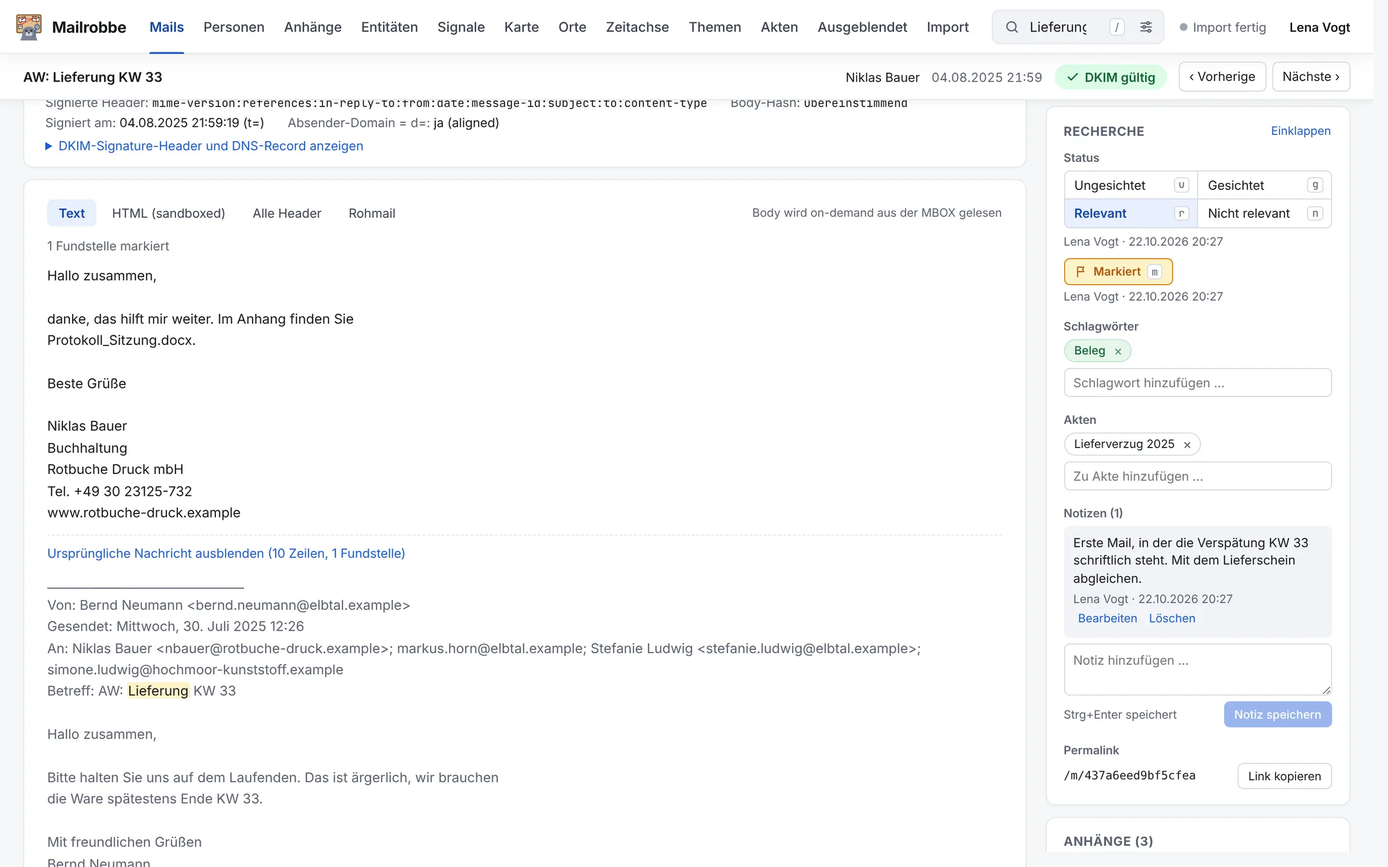
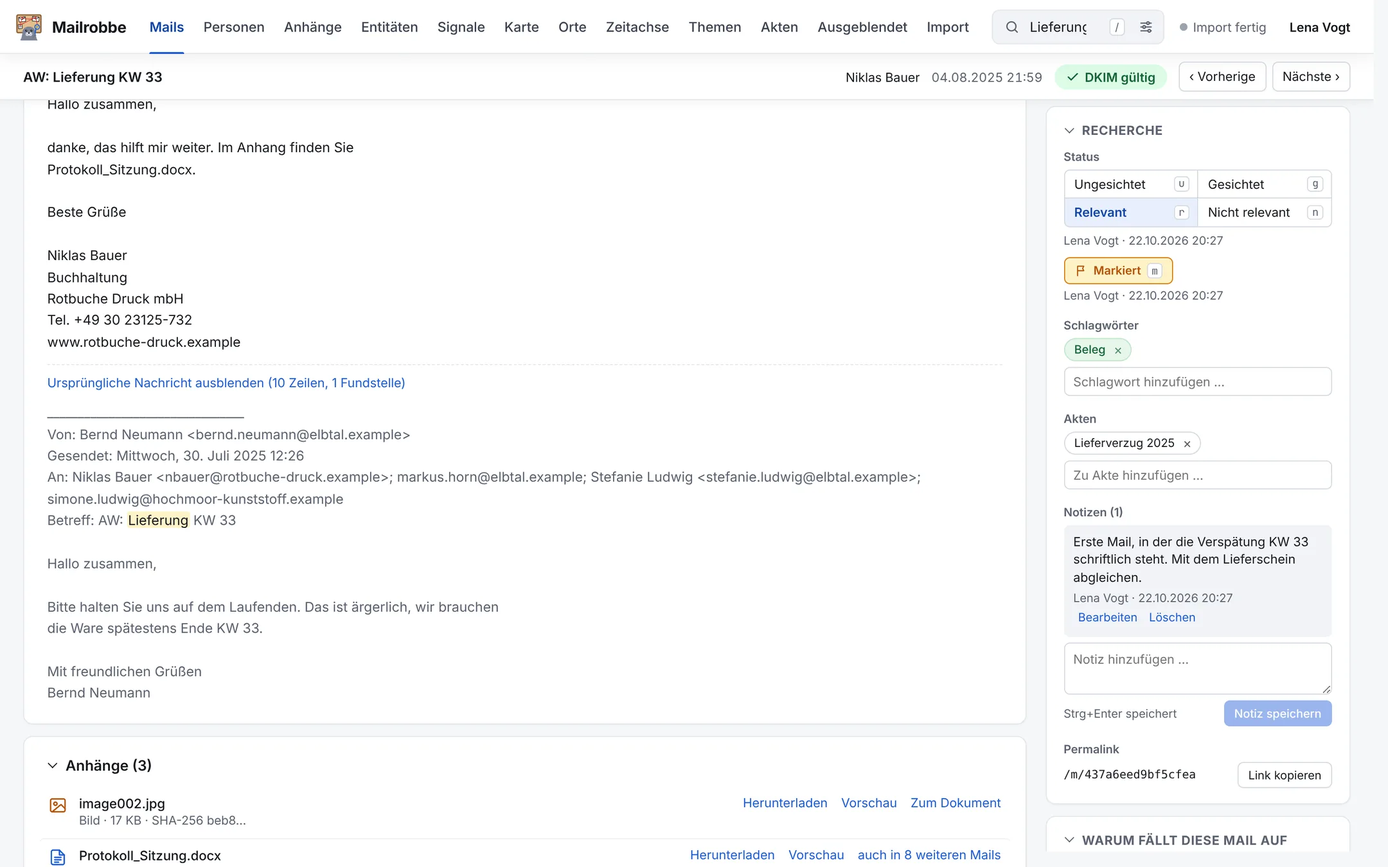
Retake the screenshots of the new mail detail, aim README and page at newsrooms
The mail detail now reads like a mail program, so the pictures of it (mail,
quotes, the social media picture) are taken again from the test archive; the
DKIM picture shows the check unfolded. README and website speak to
journalists and research teams with a leak or a large mail archive: who it is
for, evidence before publication, the legal department as the export's
reader, and what DNS lookups can give away. Below the donation links both
name a contact address with its PGP key (D194).

Claude-Session: https://claude.ai/code/session_01FLTCtAUB5yjEWvzSFBio2e

diff --git a/site/index.html b/site/index.html
@@ -3,15 +3,15 @@
   <head>
     <meta charset="utf-8" />
     <meta name="viewport" content="width=device-width, initial-scale=1" />
-    <title>Mailrobbe: große Mailarchive für Recherchen erschließen</title>
+    <title>Mailrobbe: Mail-Leaks und große Mailarchive recherchieren</title>
     <meta
       name="description"
-      content="Mailrobbe liest große MBOX-Archive ein, prüft die Echtheit jeder Mail per DKIM, zeigt, wer mit wem wann worüber geschrieben hat, und läuft lokal auf dem eigenen Rechner."
+      content="Ein Recherchewerkzeug für Redaktionen und Rechercheteams: Mailrobbe macht Mail-Leaks und große MBOX-Archive durchsuchbar, prüft per DKIM, welche Mails unverändert sind, zeigt, wer mit wem wann worüber geschrieben hat, und läuft lokal auf dem eigenen Rechner."
     />
     <meta property="og:title" content="Mailrobbe" />
     <meta
       property="og:description"
-      content="Große Mailarchive durchsuchen, prüfen und verstehen. Für Recherchen, lokal auf dem eigenen Rechner."
+      content="Mail-Leaks und große Mailarchive recherchieren: durchsuchen, prüfen, belegen. Für Redaktionen und Rechercheteams, lokal auf dem eigenen Rechner."
     />
     <meta property="og:image" content="https://mailrobbe.admon.me/img/mailliste.webp" />
     <meta name="theme-color" content="#1d5bd6" />
@@ -44,12 +44,14 @@
               <img src="logo-wordmark.svg" alt="Mailrobbe" width="420" height="105" />
             </picture>
           </h1>
-          <p class="lead">Große Mailarchive durchsuchen, prüfen und verstehen.</p>
+          <p class="lead">Mail-Leaks und große Mailarchive recherchieren: durchsuchen, prüfen, belegen.</p>
           <p class="intro">
-            Mailrobbe liest MBOX-Exporte mit Hunderttausenden Mails ein, prüft die Echtheit jeder
-            Mail, zeigt, wer mit wem wann worüber geschrieben hat, und öffnet verschlüsselte Anhänge,
-            wenn das Kennwort irgendwo im Archiv steht. Es läuft auf dem eigenen Rechner im Browser,
-            ohne Cloud und ohne Konto.
+            Ein Recherchewerkzeug für Journalistinnen und Journalisten, Redaktionen und
+            Rechercheteams, gebaut für Mailbestände, die niemand von vorn bis hinten lesen kann: ein
+            Leak, der Postfach-Export einer Quelle, Hunderttausende Mails in MBOX-Dateien. Mailrobbe
+            macht sie durchsuchbar, prüft per DKIM, welche Mails unverändert sind, zeigt, wer mit wem
+            wann worüber geschrieben hat, und öffnet verschlüsselte Anhänge, wenn das Kennwort
+            irgendwo im Archiv steht. Alles auf dem eigenen Rechner, ohne Cloud und ohne Konto.
           </p>
           <div class="actions">
             <a class="button primary" href="#installieren">So geht es los</a>
@@ -70,20 +72,20 @@
       <section class="facts" aria-label="Grundsätze">
         <div class="wrap grid four">
           <div>
-            <h2>400.000 Mails</h2>
-            <p>Gebaut für Archive dieser Größe. Listen und Filter antworten im Lasttest in Millisekunden.</p>
+            <h2>Für Leaks gebaut</h2>
+            <p>Getestet mit 400.000 Mails, samt Anhängen, gepackten Archiven und Kennwörtern. Listen und Filter antworten in Millisekunden.</p>
           </div>
           <div>
-            <h2>Nichts verändert</h2>
-            <p>Die Originaldateien bleiben unangetastet. Was angezeigt wird, prüft Mailrobbe gegen die Prüfsumme vom Import.</p>
+            <h2>Belegbar</h2>
+            <p>Die Originaldateien bleiben unangetastet. Jede Fundstelle führt zur Originalmail, geprüft gegen die Prüfsumme vom Import.</p>
           </div>
           <div>
-            <h2>Lokal</h2>
-            <p>Läuft auf dem eigenen Rechner. Inhalte aus dem Archiv verlassen ihn nicht.</p>
+            <h2>Bleibt im Haus</h2>
+            <p>Läuft auf dem eigenen Rechner, ohne Cloud und ohne Konto. Inhalte aus dem Archiv verlassen ihn nicht.</p>
           </div>
           <div>
             <h2>Bewertet nichts</h2>
-            <p>Mailrobbe zeigt, wo sich das Lesen lohnen kann. Lesen und entscheiden muss das Team.</p>
+            <p>Mailrobbe zeigt, wo sich das Lesen lohnen kann. Lesen, prüfen und entscheiden muss die Redaktion.</p>
           </div>
         </div>
       </section>
@@ -110,10 +112,10 @@
             <div class="text">
               <h3>Lesen ohne Ballast</h3>
               <p>
-                Zitierter Verlauf, Weiterleitungen und Signaturen sind eingeklappt, die Fundstellen
-                markiert, auch im eingeklappten Teil. Die Pfeiltasten blättern durch die Treffer.
-                Text, HTML, Kopfzeilen und Rohmail liest Mailrobbe bei jedem Öffnen frisch aus der
-                Originaldatei.
+                Eine Mail sieht aus wie im Mailprogramm. Zitierter Verlauf, Weiterleitungen und
+                Signaturen sind eingeklappt, die Fundstellen markiert, auch im eingeklappten Teil. Die
+                Pfeiltasten blättern durch die Treffer. Text, HTML, Kopfzeilen und Rohmail liest
+                Mailrobbe bei jedem Öffnen frisch aus der Originaldatei.
               </p>
               <p class="where">Mail-Detail</p>
             </div>
@@ -124,15 +126,16 @@
             <div class="text">
               <h3>Echtheit prüfen statt vermuten</h3>
               <p>
-                Jede DKIM-Signatur wird einzeln geprüft und mit Grund gespeichert. Gültig heißt: Die
+                Bevor eine Mail zitiert wird, will man wissen, ob sie so verschickt wurde. Jede
+                DKIM-Signatur wird einzeln geprüft und mit Grund gespeichert. Gültig heißt: Die
                 Mail wurde mit dem Schlüssel der Domain unterschrieben und ist seither unverändert. Ist
                 der Schlüssel heute aus dem DNS verschwunden, sucht Mailrobbe ihn auf Knopfdruck
                 weiter: im Archiv selbst, in einem öffentlichen Schlüsselarchiv und rechnerisch aus
                 zwei Signaturen.
               </p>
-              <p class="where">Mail-Detail, Filter „DKIM-Status“, Import: „Gelöschte Selektoren“</p>
+              <p class="where">Mail-Detail: Klick auf das DKIM-Siegel, Filter „DKIM-Status“, Import: „Gelöschte Selektoren“</p>
             </div>
-            <a class="shot" href="img/mail.webp"><img src="img/mail.webp" alt="Mail-Detail mit DKIM-Status, Anhängen, Prüfstatus, Schlagwort und Notiz" width="2160" height="1350" loading="lazy" /></a>
+            <a class="shot" href="img/mail.webp"><img src="img/mail.webp" alt="Mail-Detail mit aufgeklappter DKIM-Prüfung, Anhängen, Prüfstatus, Schlagwort und Notiz" width="2160" height="1350" loading="lazy" /></a>
           </article>
 
           <article class="feature">
@@ -247,8 +250,9 @@
               <h3>Im Team festhalten</h3>
               <p>
                 Prüfstatus, Markierung, Notizen, Schlagworte und Akten hängen an der Mail und sind
-                für alle im Team sichtbar. Eine Akte sammelt die Mails zu einer Frage und geht als
-                ZIP an Anwälte: Originalmails, PDFs, Manifest und Prüfsummen.
+                für das ganze Rechercheteam sichtbar. Eine Akte sammelt die Mails zu einer Frage und
+                geht als ZIP an Justiziariat und Anwälte: Originalmails, PDFs, Manifest und
+                Prüfsummen.
               </p>
               <p class="where">Akten</p>
             </div>
@@ -259,11 +263,11 @@
             <div class="text">
               <h3>Zeigen, ohne preiszugeben</h3>
               <p>
-                Aus jeder Mail wird auf Wunsch ein Bild für soziale Medien im Look eines
-                Mailprogramms. Beteiligte, Adressen, Telefonnummern, IBANs und Namen sind geschwärzt,
+                Aus jeder Mail wird auf Wunsch ein Bild für den Artikel oder für soziale Medien, im
+                Look eines Mailprogramms. Beteiligte, Adressen, Telefonnummern, IBANs und Namen sind geschwärzt,
                 und zwar im Text, bevor gezeichnet wird: Unter einem Balken steht nichts mehr.
               </p>
-              <p class="where">Mail-Detail, „Als Bild für Soziale Medien“</p>
+              <p class="where">Mail-Detail, Aktionen: „Als Bild für Soziale Medien“</p>
             </div>
             <a class="shot" href="img/social.webp"><img src="img/social.webp" alt="Dialog für das Bild für soziale Medien mit geschwärzter Vorschau" width="2160" height="1350" loading="lazy" /></a>
           </article>
@@ -350,7 +354,7 @@ docker compose up -d --build</code></pre>
           </details>
           <details>
             <summary>Geht dabei etwas ins Internet?</summary>
-            <p>Von selbst fragt Mailrobbe nur die DKIM-Schlüssel im DNS ab. Nur auf Knopfdruck fragt es ein öffentliches Schlüsselarchiv und lädt die Detailkarte herunter. Inhalte aus dem Archiv verlassen den Rechner nicht.</p>
+            <p>Von selbst fragt Mailrobbe nur die DKIM-Schlüssel im DNS ab. Nur auf Knopfdruck fragt es ein öffentliches Schlüsselarchiv und lädt die Detailkarte herunter. Inhalte aus dem Archiv verlassen den Rechner nicht. DNS-Server und Schlüsselarchiv erfahren aber, welche Domains gefragt werden, und bei einem Leak kann schon das verraten, wessen Mails geprüft werden. Wie man ohne DNS-Abfragen importiert und später gezielt nachprüft, steht in der <a href="https://github.com/admonstrator/mailrobbe#geht-dabei-etwas-ins-internet">README</a>.</p>
           </details>
           <details>
             <summary>Beweist „DKIM gültig“, wer die Mail geschrieben hat?</summary>
@@ -373,7 +377,7 @@ docker compose up -d --build</code></pre>
 
       <section id="unterstuetzen" class="support">
         <div class="wrap narrow">
-          <h2 class="section-title">Unterstützen</h2>
+          <h2 class="section-title">Unterstützen und Kontakt</h2>
           <p>Hinter Mailrobbe steht kein Konzern, sondern admon, viel Hartnäckigkeit und eine bedenkliche Menge Energydrinks. Wer es nützlich findet, kann die Weiterentwicklung unterstützen, mit einem Kaffee, einem Energydrink oder einfach einem Stern auf GitHub.</p>
           <div class="donate">
             <a class="button sponsor" href="https://github.com/sponsors/admonstrator">GitHub Sponsors</a>
@@ -381,13 +385,18 @@ docker compose up -d --build</code></pre>
             <a class="button kofi" href="https://ko-fi.com/admon">Ko-fi</a>
             <a class="button paypal" href="https://paypal.me/aaronviehl">PayPal</a>
           </div>
+          <p class="contact">
+            Wünsche, Lob und Kritik gern per Mail an <a href="mailto:hey@admon.me">hey@admon.me</a>,
+            auf Wunsch verschlüsselt mit <a href="https://github.com/admonstrator/Admonstrator/blob/main/pgp/hey@admon.me.asc">diesem PGP-Schlüssel</a>.<br />
+            <span class="fingerprint">Fingerabdruck <code>C2D7 EB96 8E27 4D5F 1B24 1B04 95E1 6BDE A94F 50A4</code></span>
+          </p>
         </div>
       </section>
     </main>
 
     <footer class="foot">
       <div class="wrap">
-        <p><strong>Mailrobbe ist von admon, für Recherchen in großen Mailarchiven.</strong></p>
+        <p><strong>Mailrobbe ist von admon, für Recherchen in Mail-Leaks und großen Mailarchiven.</strong></p>
         <p><a href="https://github.com/admonstrator/mailrobbe">Quellcode auf GitHub</a> · Alle Bilder zeigen erfundene Testdaten.</p>
       </div>
     </footer>

diff --git a/site/style.css b/site/style.css
@@ -452,6 +452,14 @@ h3 {
   filter: brightness(0.92);
 }
 
+.contact {
+  margin: 32px 0 0;
+}
+
+.fingerprint {
+  font-size: 14px;
+}
+
 /* Lightbox */
 
 .shot {

diff --git a/README.md b/README.md
@@ -7,26 +7,42 @@
 
 <h1>Mailrobbe</h1>
 
-**Große Mailarchive durchsuchen, prüfen und verstehen.**
+**Mail-Leaks und große Mailarchive recherchieren: durchsuchen, prüfen, belegen.**
 
 [![GitHub Sponsors](https://img.shields.io/badge/GitHub-Sponsors-EA4AAA?style=for-the-badge&logo=github)](https://github.com/sponsors/admonstrator) [![Buy Me A Coffee](https://img.shields.io/badge/Buy%20Me%20A%20Coffee-FFDD00?style=for-the-badge&logo=buy-me-a-coffee&logoColor=black)](https://buymeacoffee.com/admon) [![PayPal](https://img.shields.io/badge/PayPal-00457C?style=for-the-badge&logo=paypal&logoColor=white)](https://paypal.me/aaronviehl) [![Ko-fi](https://img.shields.io/badge/Ko--fi-FF5E5B?style=for-the-badge&logo=ko-fi&logoColor=white)](https://ko-fi.com/admon)
 
 Hinter Mailrobbe steht kein Konzern, sondern admon, viel Hartnäckigkeit und eine bedenkliche Menge Energydrinks.<br>
 Wenn es dir eine Recherche leichter gemacht hat, freut sich die Weiterentwicklung über deine Unterstützung.
 
-[Website](https://mailrobbe.admon.me/) | [Auf einen Blick](#auf-einen-blick) | [Was Mailrobbe kann](#was-mailrobbe-kann) | [Schnellstart](#schnellstart) | [Häufige Fragen](#häufige-fragen)
+Wünsche, Lob und Kritik gern per Mail an [hey@admon.me](mailto:hey@admon.me), auf Wunsch verschlüsselt mit [diesem PGP-Schlüssel](https://github.com/admonstrator/Admonstrator/blob/main/pgp/hey@admon.me.asc).<br>
+<sub>Fingerabdruck `C2D7 EB96 8E27 4D5F 1B24  1B04 95E1 6BDE A94F 50A4`</sub>
+
+[Website](https://mailrobbe.admon.me/) | [Für wen](#für-wen) | [Auf einen Blick](#auf-einen-blick) | [Was Mailrobbe kann](#was-mailrobbe-kann) | [Schnellstart](#schnellstart) | [Häufige Fragen](#häufige-fragen)
 
 </div>
 
 ---
 
-Mailrobbe liest MBOX-Exporte mit Hunderttausenden Mails ein, prüft die Echtheit jeder Mail, zeigt, wer mit wem wann worüber geschrieben hat, und öffnet verschlüsselte Anhänge, wenn das Kennwort irgendwo im Archiv steht. Gebaut ist es für Recherchen, für Leute, die in einem Berg aus Mails schnell die richtigen finden müssen, ohne vorher Datenbanken zu studieren.
+Mailrobbe ist ein Recherchewerkzeug für Journalistinnen und Journalisten, Redaktionen und Rechercheteams. Es ist für Mailbestände gebaut, die niemand von vorn bis hinten lesen kann: ein Leak, der Postfach-Export einer Quelle, Hunderttausende Mails in MBOX-Dateien. Mailrobbe macht sie durchsuchbar, auch in den Anhängen, prüft per DKIM, welche Mails nachweislich unverändert sind, zeigt, wer mit wem wann worüber geschrieben hat, und öffnet verschlüsselte Anhänge, wenn das Kennwort irgendwo im Archiv steht.
 
-Es läuft auf dem eigenen Rechner im Browser, ohne Cloud und ohne Konto. Die Mails bleiben unverändert in ihren Dateien. Und bewertet wird nichts: Mailrobbe zeigt, wo sich das Lesen lohnen kann. Lesen und entscheiden muss das Team.
+Das Material bleibt im Haus: Mailrobbe läuft auf dem eigenen Rechner im Browser, ohne Cloud und ohne Konto, und die Mails bleiben unverändert in ihren Dateien. Jede Fundstelle führt zurück zur Originalmail. Und bewertet wird nichts: Mailrobbe zeigt, wo sich das Lesen lohnen kann. Lesen, prüfen und entscheiden muss die Redaktion.
 
 ![Die Mailliste mit Suche, Filtern, Kennzahlen, Signalen und Entitäten](site/img/mailliste.webp)
 
 <sub>Alle Bilder hier und auf der [Website](https://mailrobbe.admon.me/) zeigen ein erfundenes Testarchiv, keine echten Mails.</sub>
+
+---
+
+## Für wen
+
+Für Recherchen, bei denen ein großer Mailbestand im Kern der Geschichte steht:
+
+- **Leaks und Postfach-Exporte**, zu groß zum Durchlesen, oft mit Anhängen, gepackten Archiven und Kennwörtern.
+- **Veröffentlichen mit Beleg.** Bevor eine Mail zitiert wird, zeigt DKIM, ob sie unverändert ist. Der Export liefert Originalmails, PDFs und Prüfsummen für Justiziariat und Anwälte.
+- **Personen und Netzwerke:** wer mit wem, wer wusste was wann, wer hinter welcher Adresse steckt.
+- **Teams**, die gemeinsam sichten, markieren und Funde sammeln, ohne Material in eine Cloud zu laden.
+
+Fürs eigene Postfach ist das zu viel Werkzeug. Dafür reicht das Mailprogramm.
 
 ---
 
@@ -35,7 +51,7 @@ Es läuft auf dem eigenen Rechner im Browser, ohne Cloud und ohne Konto. Die Mai
 | Frage | Wo in Mailrobbe |
 | --- | --- |
 | Wo steht ein Begriff, auch in PDFs, Tabellen und ZIP-Dateien? | Suchfeld oben, das Suchmenü daneben grenzt ein |
-| Ist diese Mail echt? | DKIM-Prüfung im Mail-Detail, Filter nach DKIM-Status |
+| Ist diese Mail echt und unverändert? | DKIM-Siegel und DKIM-Prüfung im Mail-Detail, Filter nach DKIM-Status |
 | Wer hat mit wem wie oft geschrieben? | Karte, Top-Kontakte im Personenprofil |
 | Wer steckt hinter mehreren Adressen? | Alias-Vorschläge unter Personen |
 | Wer wusste was wann? | Zeitachse: Verlauf, Ausreißer, Verstummen, erste Erwähnung |
@@ -46,8 +62,8 @@ Es läuft auf dem eigenen Rechner im Browser, ohne Cloud und ohne Konto. Die Mai
 | Welche Beträge, Konten und Namen tauchen auf? | Entitäten, Facetten neben der Mailliste |
 | Wo wurden Fotos gemacht, welche Orte fallen? | Orte |
 | Wie halte ich Funde im Team fest? | Prüfstatus, Notizen, Schlagworte und Akten an jeder Mail |
-| Wie gebe ich Belege an Anwälte weiter? | Export als ZIP mit Originalmails, PDFs und Prüfsummen |
-| Wie zeige ich eine Mail öffentlich? | „Als Bild für Soziale Medien“, mit Schwärzungen |
+| Wie gehen Belege ans Justiziariat oder an Anwälte? | Export als ZIP mit Originalmails, PDFs und Prüfsummen |
+| Wie zeige ich eine Mail im Artikel oder in sozialen Medien? | Mail-Detail, Aktionen: „Als Bild für Soziale Medien“, mit Schwärzungen |
 
 ---
 
@@ -61,7 +77,7 @@ Ein Suchfeld für Betreff, Mailtext, den Text der Anhänge und Dateinamen, auch 
 
 ### Lesen ohne Ballast
 
-Zitierter Verlauf, Weiterleitungen und Signaturen sind eingeklappt, die Fundstellen markiert, auch im eingeklappten Teil. Die Pfeiltasten blättern durch die Treffer. Text, HTML, Kopfzeilen und Rohmail liest Mailrobbe bei jedem Öffnen frisch aus der Originaldatei; HTML-Mails laufen abgeschottet, ohne Skripte und ohne Nachladen von außen. Kalendereinladungen erscheinen als Termin mit den Antworten der Eingeladenen.
+Eine Mail sieht aus wie im Mailprogramm: Kopf, Text, Anhänge darunter. DKIM-Prüfung und technische Angaben bleiben eingeklappt, bis man sie braucht, und jeder Block merkt sich, ob er offen war. Zitierter Verlauf, Weiterleitungen und Signaturen sind eingeklappt, die Fundstellen markiert, auch im eingeklappten Teil. Die Pfeiltasten blättern durch die Treffer. Text, HTML, Kopfzeilen und Rohmail liest Mailrobbe bei jedem Öffnen frisch aus der Originaldatei; HTML-Mails laufen abgeschottet, ohne Skripte und ohne Nachladen von außen. Kalendereinladungen erscheinen als Termin mit den Antworten der Eingeladenen.
 
 ### Newsletter und Signaturen loswerden
 
@@ -69,9 +85,9 @@ Ausblendregeln nehmen Newsletter, Verteiler und Systemmails aus Liste und Suche,
 
 ### Echtheit prüfen statt vermuten
 
-Jede DKIM-Signatur wird einzeln geprüft und mit Grund gespeichert. Gültig heißt: Die Mail wurde mit dem Schlüssel der Domain unterschrieben und ist seither unverändert. Bei älteren Mails steht der Schlüssel oft nicht mehr im DNS. Dann sucht Mailrobbe unter Import, „Gelöschte Selektoren“, auf Knopfdruck weiter: im Archiv selbst, in einem öffentlichen Schlüsselarchiv und rechnerisch aus zwei Signaturen. Jede Signatur sagt, woher ihr Schlüssel stammt.
+Bevor eine Mail zitiert wird, will man wissen, ob sie so verschickt wurde. Jede DKIM-Signatur wird einzeln geprüft und mit Grund gespeichert; das Siegel oben in der Mail zeigt das Ergebnis, ein Klick darauf die Prüfung mit Domain, Selektor und Schlüssel. Gültig heißt: Die Mail wurde mit dem Schlüssel der Domain unterschrieben und ist seither unverändert. Bei älteren Mails steht der Schlüssel oft nicht mehr im DNS. Dann sucht Mailrobbe unter Import, „Gelöschte Selektoren“, auf Knopfdruck weiter: im Archiv selbst, in einem öffentlichen Schlüsselarchiv und rechnerisch aus zwei Signaturen. Jede Signatur sagt, woher ihr Schlüssel stammt.
 
-![Mail-Detail mit DKIM-Status, Anhängen, Prüfstatus, Schlagwort und Notiz](site/img/mail.webp)
+![Mail-Detail mit aufgeklappter DKIM-Prüfung, Anhängen, Prüfstatus, Schlagwort und Notiz](site/img/mail.webp)
 
 ### Personen statt Adressen
 
@@ -107,7 +123,7 @@ Fotos nach ihren GPS-Daten, Orte, die Mails und Anhänge nennen, und die Orte vo
 
 ### Im Team festhalten und weitergeben
 
-Prüfstatus, Markierung, Notizen, Schlagworte, Akten und gespeicherte Suchen hängen an der Mail und sind für alle sichtbar, die mit demselben Mailrobbe arbeiten. Der Export packt bis zu 2.000 Mails in ein ZIP für Anwälte: Originalmails, PDFs, Manifest und Prüfsummen. Und „Als Bild für Soziale Medien“ macht aus einer Mail ein PNG im Look eines Mailprogramms, mit geschwärzten Beteiligten, Adressen, Telefonnummern und Namen. Geschwärzt wird im Text, bevor gezeichnet wird: Unter einem Balken steht nichts mehr.
+Prüfstatus, Markierung, Notizen, Schlagworte, Akten und gespeicherte Suchen hängen an der Mail und sind für alle sichtbar, die mit demselben Mailrobbe arbeiten. Der Export packt bis zu 2.000 Mails in ein ZIP für Justiziariat und Anwälte: Originalmails, PDFs, Manifest und Prüfsummen. Und „Als Bild für Soziale Medien“ unter den Aktionen einer Mail macht aus ihr ein PNG für Artikel und soziale Medien im Look eines Mailprogramms, mit geschwärzten Beteiligten, Adressen, Telefonnummern und Namen. Geschwärzt wird im Text, bevor gezeichnet wird: Unter einem Balken steht nichts mehr.
 
 Mehr Bilder gibt es auf der [Website](https://mailrobbe.admon.me/).
 
@@ -238,7 +254,7 @@ Nein. Die MBOX-Dateien sind schreibgeschützt eingebunden, die Datenbank hält n
 
 ### „Geht dabei etwas ins Internet?“
 
-Von selbst fragt Mailrobbe nur die DKIM-Schlüssel im DNS ab. Nur auf Knopfdruck fragt es das Schlüsselarchiv ZK Email und lädt die Detailkarte herunter. Inhalte aus dem Archiv verlassen den Rechner nicht; DNS und Schlüsselarchiv erfahren nur Namen von Domains und Selektoren. Wer auch keine DNS-Abfragen will, importiert mit `docker compose run --rm -e MAILROBBE_DKIM_OFFLINE=1 backend mailrobbe import`.
+Von selbst fragt Mailrobbe nur die DKIM-Schlüssel im DNS ab. Nur auf Knopfdruck fragt es das Schlüsselarchiv ZK Email und lädt die Detailkarte herunter. Inhalte aus dem Archiv verlassen den Rechner nicht. DNS-Server und Schlüsselarchiv erfahren aber, welche Domains und Selektoren gefragt werden, und bei einem Leak kann schon das verraten, wessen Mails da gerade geprüft werden. Wer das vermeiden will, importiert ohne DNS-Abfragen mit `docker compose run --rm -e MAILROBBE_DKIM_OFFLINE=1 backend mailrobbe import` und prüft später mit `docker compose run --rm backend mailrobbe dkim` nach, wann und über welche DNS-Server (`MAILROBBE_DKIM_NAMESERVERS`) es passt.
 
 ### „Beweist ‚DKIM gültig‘, wer die Mail geschrieben hat?“
 
@@ -268,7 +284,7 @@ Ja. Alle, die denselben Mailrobbe im Browser öffnen, sehen dieselbe Rechercheak
 
 ### „Ich habe einen Fehler gefunden. Und jetzt?“
 
-Ein [Issue](https://github.com/admonstrator/mailrobbe/issues) aufmachen, mit möglichst genauer Beschreibung und ohne echte Mails im Anhang. Wer den Fehler gleich selbst behebt, schickt einen Pull Request. Willkommen ist jeder, vom Gelegenheitsbastler bis zu den Leuten, die beim Wort „Speicherverwaltung“ leuchtende Augen bekommen.
+Ein [Issue](https://github.com/admonstrator/mailrobbe/issues) aufmachen, mit möglichst genauer Beschreibung und ohne echte Mails im Anhang. Wer den Fehler nur mit echtem Material zeigen kann, schreibt lieber verschlüsselt an [hey@admon.me](mailto:hey@admon.me) ([PGP-Schlüssel](https://github.com/admonstrator/Admonstrator/blob/main/pgp/hey@admon.me.asc)). Wer den Fehler gleich selbst behebt, schickt einen Pull Request. Willkommen ist jeder, vom Gelegenheitsbastler bis zu den Leuten, die beim Wort „Speicherverwaltung“ leuchtende Augen bekommen.
 
 ---
 
@@ -288,7 +304,7 @@ Was es nicht kann: entscheiden, ob etwas wahr, wichtig oder strafbar ist. Das bl
 
 <div align="center">
 
-**Mailrobbe ist von admon, für Recherchen in großen Mailarchiven.**
+**Mailrobbe ist von admon, für Recherchen in Mail-Leaks und großen Mailarchiven.**
 
 Wenn es dir nützt, freut sich das Repository über einen Stern.
 

diff --git a/docs/DECISIONS.md b/docs/DECISIONS.md
@@ -160,7 +160,7 @@ Binding decisions for Mailrobbe beyond docs/SPEC.md. New entries get the next nu
 | D191 | Search menu (replaces the place of the options in D177) | The search options move from the filter column into a menu at the header's search field: "Suchen in" (subject, text, attachment text, file name; one stays ticked), "Ganzes Wort", "Mindestens … Treffer", "Ausschließen" (a field that adds `-word` terms to the query, phrases kept whole, and the minus explained), the saved searches (D59) with "Aktuelle Suche speichern", and the syntax. A badge on its button counts the options set. On the mail list and a mail opened from it the options change the list at once, as before; elsewhere the menu keeps them for the next search. The panel is an element of the header, closed by Esc, a click or the focus outside; it returns the focus to its button. The options stay query parameters, chips and parts of saved searches as in D177 and D178. | 2026-10-21 |
 | D192 | Modern finish without new dependencies | Shared components get transitions, hover and pressed states, a light card shadow (`--shadow-card`), thin scrollbars for inner scroll areas, tabular figures in tables; `prefers-reduced-motion` turns transitions off. No component library, no polyfill: the Popover API and CSS anchor positioning were weighed for the menu and not used, since Firefox lacks anchor positioning and the menu needs no top layer inside the sticky header. | 2026-10-21 |
 | D193 | Paging with page numbers (Aaron, 2026-10-22: a working pagination, not only forward and back; revises the paging of D19) | Lists page with numbers: the first and the last page, the pages around the current one, a field to jump to a page, and the page size (25, 50, 100 or 200) in the URL. Zurück and Weiter stay keyset steps (D19). A jump reads its page by OFFSET in the list order from the nearer end, the second half in reverse order, so no jump passes more than half the list, and it is bounded by the count budget of D19: what does not answer in time says so instead of waiting. Pages are numbered as far as the total is known: all of them with an exact total, those within the count with "mehr als 10.000", and the last page is reached from the end even then. This holds wherever a list pages: mails, a person's mails, persons, documents, a document's mails, entities, selectors and standard blocks. | 2026-10-22 |
-| D194 | README and project page (Aaron, 2026-10-22: a README built like his other repositories, a small website with screenshots, the donation links; no CI or stack badges) | The README follows zettelrobbe and glinet-tailscale-updater without their emojis (CLAUDE.md): wordmark, tagline and the donation badges in the header (Aaron, 2026-10-22: the sponsor buttons up by the logo, as glinet-tailscale-updater has them), section links, the table of questions, the features with a few screenshots, a note on backing up the research file, quick start, settings, search syntax, questions in quotes and a disclaimer; the only badges are the donation links. The website is static German HTML and CSS in `site/` without external requests; its one inline script opens the screenshots in a lightbox (a modal `<dialog>`: click to enlarge to 2160 px, arrow keys page through, Esc or a click beside the picture closes; without the script the links open the picture itself), published to https://mailrobbe.admon.me by `.github/workflows/pages.yml` whenever `site/` or a logo file changes on main (Settings, Pages, source "GitHub Actions"); the workflow adds the logo files from `frontend/public/` and `docs/logo/`. Screenshots come only from the generated test archive (`mailrobbe generate`, with demo Akten, notes and hide rules added through the API), never from a real archive; they are WebP at 2160 px width in `site/img/`, shared by the website and the README. | 2026-10-22 |
+| D194 | README and project page (Aaron, 2026-10-22: a README built like his other repositories, a small website with screenshots, the donation links; no CI or stack badges) | Both speak to journalists, newsrooms and research teams with a leak or a large mail archive, not to private users with a full mailbox (Aaron, 2026-10-22), and both give a contact address with its PGP key below the donation links. The README follows zettelrobbe and glinet-tailscale-updater without their emojis (CLAUDE.md): wordmark, tagline and the donation badges in the header (Aaron, 2026-10-22: the sponsor buttons up by the logo, as glinet-tailscale-updater has them), section links, the table of questions, the features with a few screenshots, a note on backing up the research file, quick start, settings, search syntax, questions in quotes and a disclaimer; the only badges are the donation links. The website is static German HTML and CSS in `site/` without external requests; its one inline script opens the screenshots in a lightbox (a modal `<dialog>`: click to enlarge to 2160 px, arrow keys page through, Esc or a click beside the picture closes; without the script the links open the picture itself), published to https://mailrobbe.admon.me by `.github/workflows/pages.yml` whenever `site/` or a logo file changes on main (Settings, Pages, source "GitHub Actions"); the workflow adds the logo files from `frontend/public/` and `docs/logo/`. Screenshots come only from the generated test archive (`mailrobbe generate`, with demo Akten, notes and hide rules added through the API), never from a real archive; they are WebP at 2160 px width in `site/img/`, shared by the website and the README, and are taken again when the screens they show change. | 2026-10-22 |
 | D195 | Mail detail as a mail program (Aaron, 2026-10-22: the DKIM check takes too much room, every block should fold and stay as left, many attachments make the side column long, less technical; variant A of the mockup chosen; revises the attachments' place of D166) | The main column shows the mail as a mail program does: the subject with the DKIM badge, the sender with its initials, An, Cc and Bcc below, the date at the right, and the number and size of the attachments; then the text and the attachments as a list below it, one row each (kind in words with the MIME type on hover, pages, size, SHA-256, the metadata line of D167, download, preview, document), the first eight and those holding a search word as before. Below them the DKIM check and a block "Technische Angaben" (Message-ID, In-Reply-To, source in the MBOX file, internal id) stand folded to one line with a summary; the badge and the attachment count open their block and scroll to it, and "Neu prüfen" works folded and opens it. Every block of the page folds by its heading and the browser remembers it per block in `mailrobbe.folds` (replacing D166's own key of the research card): open at first are research, signals, participants, thread, near duplicates, the invitation and the attachments; folded at first are the DKIM check, the technical fields, the entities, hiding and the actions. The text label "Nicht unterstützt" no longer shows beside pictures and recordings, since the kind says it, and the body's tabs drop "sandboxed" and the note on reading from the MBOX file. Nothing is removed: every field and action stays one click away. | 2026-10-22 |
 | D196 | Windows (Aaron, 2026-10-22: Docker Desktop on a PC works too, also with WSL; extends D7) | Windows with Docker Desktop and its WSL 2 backend is a target like macOS and Linux. The README and the website say to run the commands in a WSL terminal, where a drive D: is `/mnt/d`, and that MBOX files inside the WSL file system read faster than those on a Windows drive; Docker's memory there is WSL's, by default half of the machine's. `.gitattributes` keeps LF in every checkout, since Git for Windows would otherwise write `docker/entrypoint.sh` with CRLF and the container would not start. | 2026-10-22 |
 | D200 | Research features (Aaron, 2026-10-22: link things, find background; plan with 14 questions, answered "passt so") | Six milestones after the parked AI plan (M15 to M17, whose numbers D180 to D189 stay free): M18 sharper search (hide rules, standard blocks, own words only, proximity), M19 protected and packed attachments, M20 places, M21 traces in texts, M22 evidence and matching lists, M23 the network of persons. Order: M18 first, then M19 and M20 side by side, then M21, M22 and M23; only M21 builds on M18. Each works on the archive as imported, new data comes from steps of the import run (D110). Their decisions start at D220 (M18), D230 (M19), D240 (M20), D250 (M21), D260 (M22) and D270 (M23). | 2026-10-22 |
